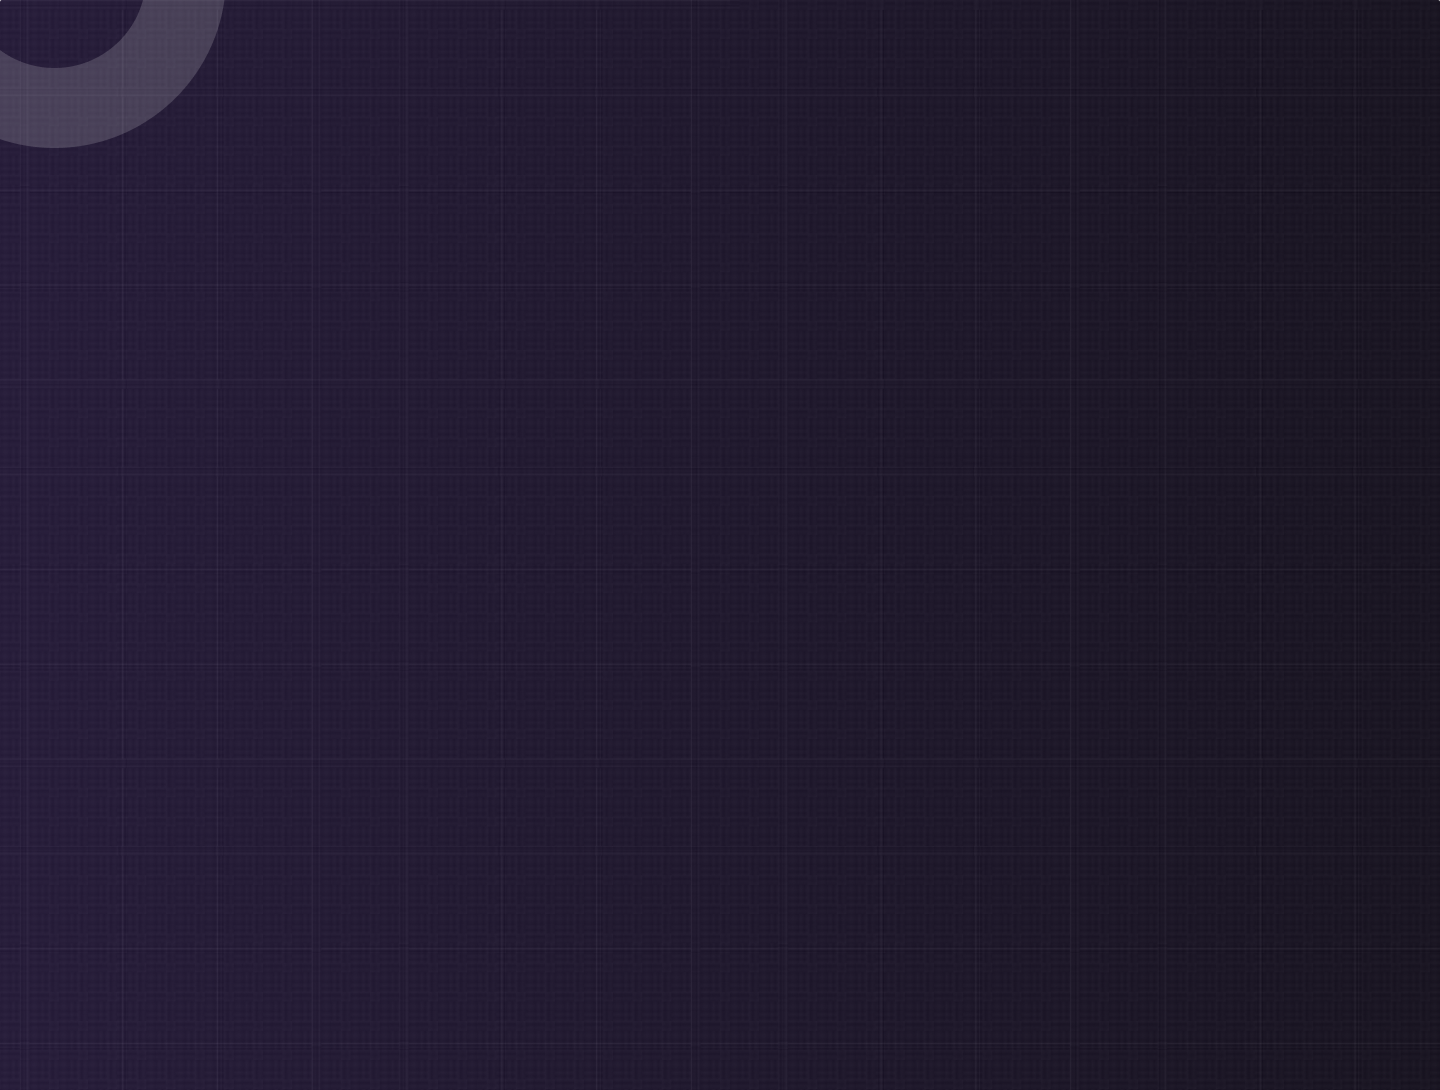
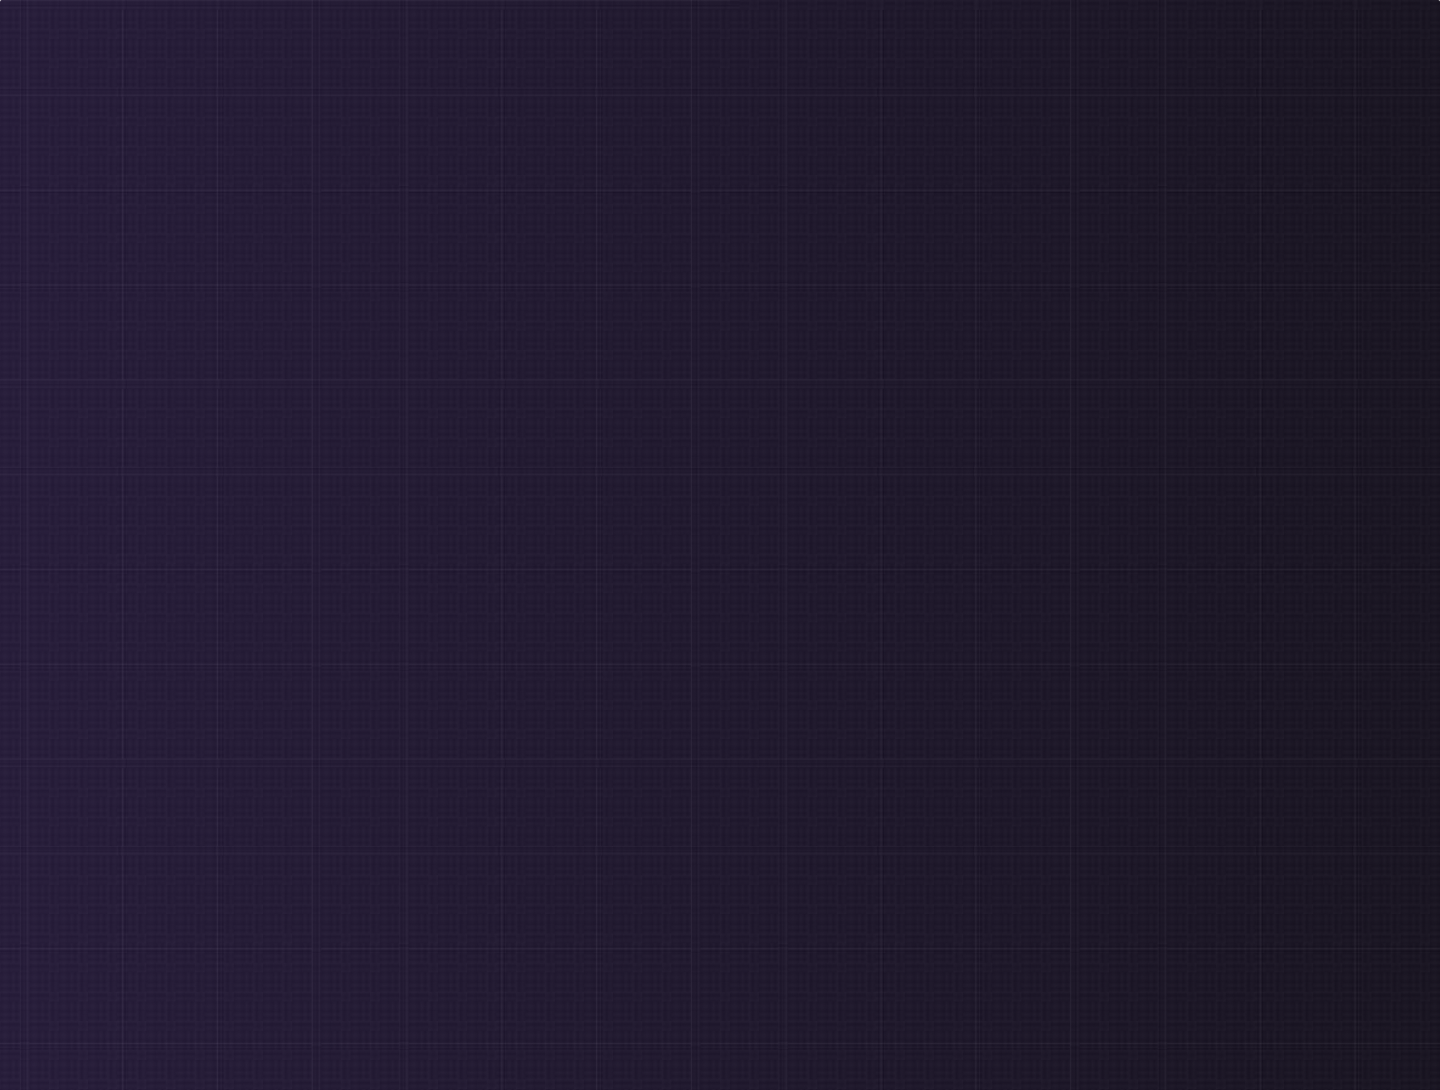
edits

Changed region(s): [[0.0, 0.0, 0.1562, 0.156]]

diff --git a/css/style.css b/css/style.css
@@ -235,8 +235,14 @@ header .hero .navbar .contactUs {
     background-image: url(../images/standOutBG.png);
     background-repeat: no-repeat;
     background-size: 100% 100%;
+    position: relative;
 }
-
+#standOut:before{
+    content:url(../images/Ellipse.png);
+    position: absolute;
+    top: 0;
+    left: 0;
+}
 .steps .step p {
     color: #BEC0BE;
     font-weight: 600;
